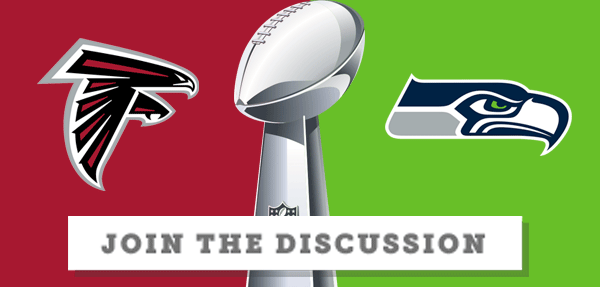
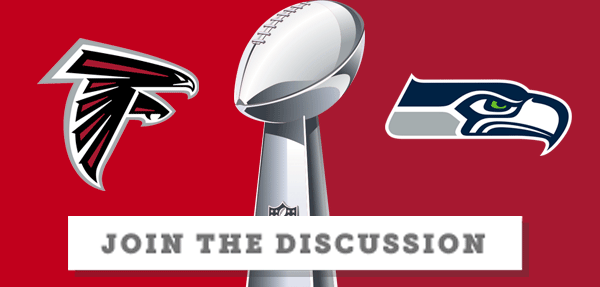
add pats-texans theme

diff --git a/src/scss/themes/_playoff-theme.scss b/src/scss/themes/_playoff-theme.scss
@@ -1,7 +1,7 @@
-$teamColor1: #b01a37;
-$teamColor2: #73c72d;
-$gameHeader: "TOP-atl-sea.png";
-$gameTitle: "TOP-atl-sea-title.png";
+$teamColor1: #c6021f;
+$teamColor2: #b01a37;
+$gameHeader: "TOP-ne-hou.png";
+$gameTitle: "TOP-ne-hou-title.png";
 
 html{
 	background: linear-gradient(to right, $teamColor1 0%,$teamColor1 50%, $teamColor2 50%, $teamColor2 100%);
